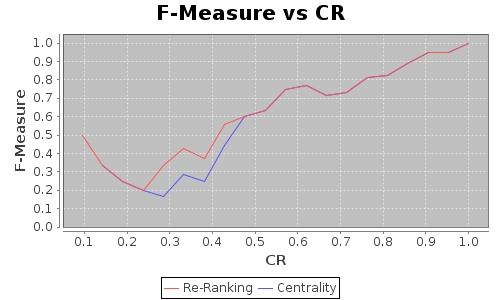
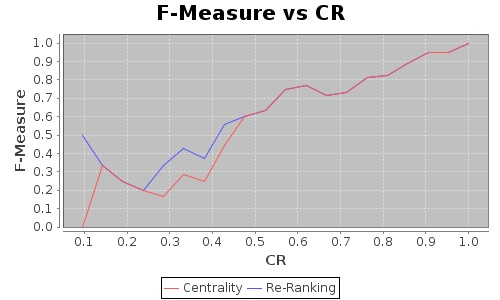
f-measure divide by zero bug fixed

diff --git a/OntologySummarization/src/fr/inria/wimmics/explanation/evaluation/test/DCGSurveyInference1Test.java b/OntologySummarization/src/fr/inria/wimmics/explanation/evaluation/test/DCGSurveyInference1Test.java
@@ -105,8 +105,9 @@ public class DCGSurveyInference1Test {
 		
 		// Add the series to your data set
 		XYSeriesCollection fMeasureCRdataset = new XYSeriesCollection();
-		fMeasureCRdataset.addSeries(soloReRankFMeasureCR);
 		fMeasureCRdataset.addSeries(soloCentralityFMeasureCR);
+		fMeasureCRdataset.addSeries(soloReRankFMeasureCR);
+		
 		
 		
 		// Generate the ndcg vs cr graph
@@ -322,11 +323,16 @@ public class DCGSurveyInference1Test {
 			PrecisionRecall pr = PrecisionRecallCalculator.calculatePrecisionRecall(S,H);
 			double precision = pr.getPrecision();
 			double recall = pr.getRecall();
-			double f_measure = (2*precision*recall)/(precision+recall);
+			Double f_measure = (2*precision*recall)/(precision+recall);
+			if(f_measure.isNaN()) {
+				f_measure = 0.0;
+				//System.out.println("*********************************");
+			}
 			double cr = (double) p / (double) reList1.size();
 			//System.out.println("Precision:"+precision);
 			//System.out.println("Recall:"+recall);
 			System.out.println("F:"+f_measure+" CR:"+cr+" p:"+p);
+			System.out.println("Precision:"+precision+" Recall:"+recall);
 			series.add(cr, f_measure);
 			res.put(cr, f_measure);
 		}
